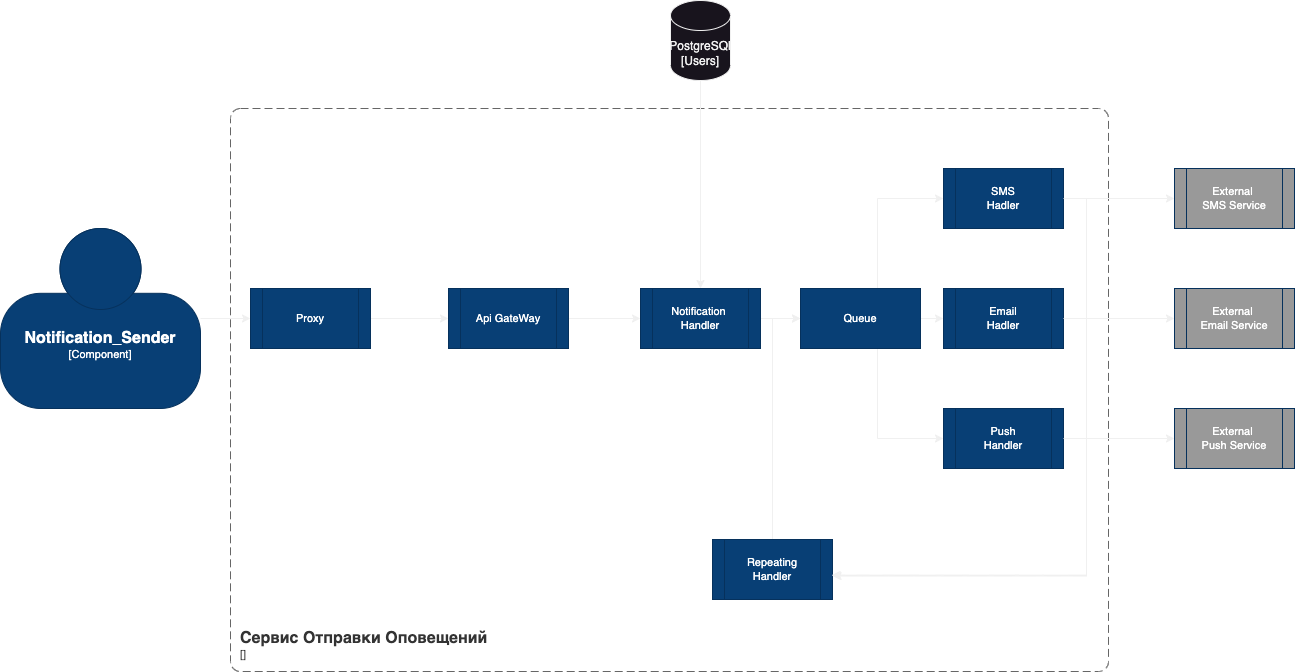
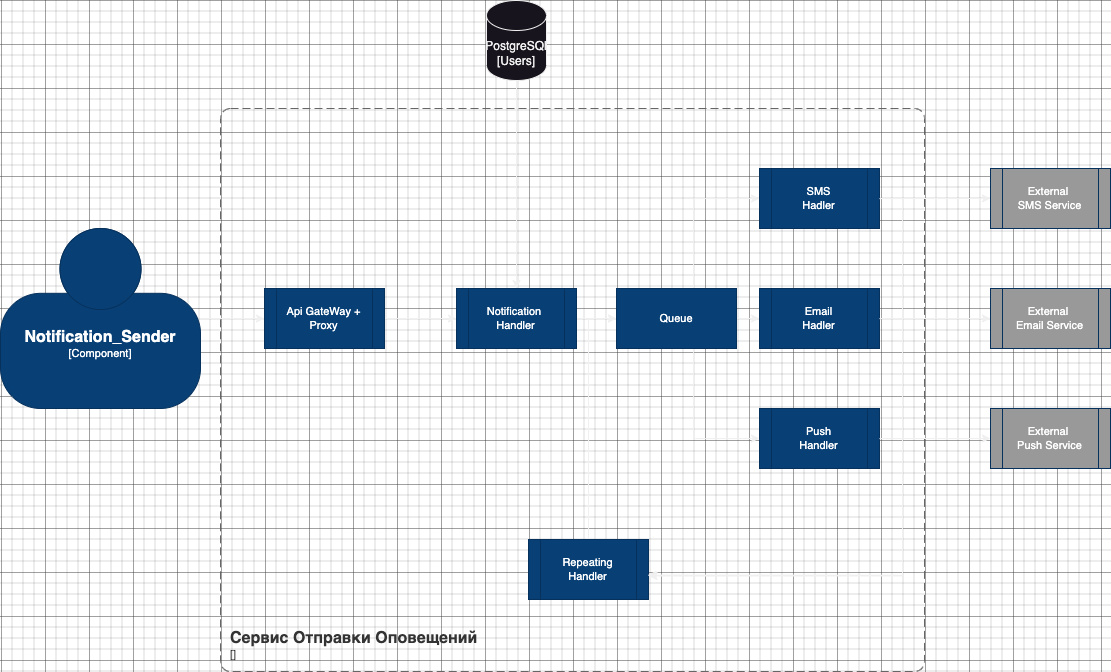
second attempt
- change diagrams
- add explanation in adrs
- split adr rest api and proxy
- correct misundestanding
- describe databases and data inside

diff --git a/notificator/software_architecture_document.md b/notificator/software_architecture_document.md
@@ -12,6 +12,9 @@
 
 ## Целевая архитектура
 
+После анализа требований было принято решение использование архитектуры микросервисов. 
+
+
 ### Диаграмма контекста (C1):
 ![C1](static/c1.svg)
 
@@ -19,7 +22,8 @@
 
 ### Диаграмма контейнеров (C2):
 ![C2](static/c2.png)
-![C2_logs](static/c2_2.png)
+
+
 Процессы:
    1. Запроса на формирование нотификейшена
    2. Сохранения информации об отправленных запросах
@@ -30,20 +34,20 @@
 
 Бизнес-данные:    
    1. Конфигурации каналов связи
-   2. Расписание рассылки
 
 Отчетные/аналитические данные:
    1. Логи/Метрики
 
 #### ADR:
 
-| ID      | Дата       | Статус      | Участники     | Решения                                         |
-|---------|------------|-------------|---------------|-------------------------------------------------|
-| ADR-001 | 2023-10-08 | Рассмотрено | Трошина Дарья | Использовать REST API <br/> Использование proxy |
-| ADR-002 | 2023-10-08 | Рассмотрено | Трошина Дарья | Использовать API Gateway                        |
-| ADR-004 | 2023-10-08 | Рассмотрено | Трошина Дарья | Использовать брокер сообщений для отправки оповещений на хэндлеры                                              |
-| ADR-005 | 2023-10-08 | Рассмотрено | Трошина Дарья | Использования сервиса повторной отправки при сбоях                                              |
-| ADR-007 | 2023-10-08 | Рассмотрено | Трошина Дарья | Логгирование для всех контейнеров                                            |
+| ID      | Дата       | Статус      | Участники     | Решения                                        |
+|---------|------------|-------------|---------------|------------------------------------------------|
+| ADR-001 | 2023-10-08 | Рассмотрено | Трошина Дарья | Использовать REST API  |
+| ADR-002 | 2023-10-08 | Рассмотрено | Трошина Дарья | Использовать API Gateway                       |
+| ADR-004 | 2023-10-08 | Рассмотрено | Трошина Дарья | Использовать брокер сообщений для отправки оповещений на хэндлеры                                             |
+| ADR-005 | 2023-10-08 | Рассмотрено | Трошина Дарья | Использования сервиса повторной отправки при сбоях                                             |
+| ADR-007 | 2023-10-08 | Рассмотрено | Трошина Дарья | Логгирование для всех контейнеров                                           |
+| ADR-009 | 2023-10-09 | Рассмотрено | Трошина Дарья | Использование proxy                                         |
 
 
 
@@ -58,6 +62,7 @@
 
 #### Компоненты SMS/EMAIL/Push Handler, Repeating Handler, Logging:
 ![C3_2](static/с3_2.png)
+![C2_logs](static/c2_2.png)
 
 | ID      | Дата       | Статус      | Участники     | Решения                                         |
 |---------|------------|-------------|---------------|-------------------------------------------------|

diff --git a/notificator/ADR/adr-003.md b/notificator/ADR/adr-003.md
@@ -9,18 +9,28 @@
 
 #### Решения:
 * Использовать PostgreSql для хранения конфигураций отправки и данных пользователя
+* Разделение данных на 2 базы
 
 #### Контекст:
 Необходимо хранить конфигурации для отправки уведомлений
 
-Нужен быстрый поиск по данным, для этого нужна реляционная система.
-Сильных ограничений на базу в данном случае нет. Выбираем Постгрес, как опенсорсное и универсальное решение
+Нужен поиск по данным, для этого лучше подходит реляционная система. 
+В ней привлекает возможность наложения констрейнов в виде ключей.
+Это ускорит поиск и объединение данных.
+Сильных ограничений на базу в данном случае нет. 
+Поэтому останавливаюсь на постгресе, поскольку уже был опыт с этой базой данных у команды.
+
+В системе 2 базы данных. 
+* Первая внешняя для нашей системы. Она хранит персональные знания о юзерах. Предполагается, что наша система это лишь кусок чего-то большего. Во избежание лишних рисков выносим работу с ПД во вне помимо почты, куда отправлять. Также для отказоустойчивости базы. Если мы потеряем содержание сообщение это не так страшно, как если мы потеряем информацию о юзере 
+* Вторая внутренняя для нашей системы. Она хранит знания о настройках отправляемых сообщений: что надо отправить, куда, какие персональные данные стоит вставить. Например, часто письма делают персонализированными: "Здравствуйте, Дарья...". Или тому подобное, или надо вставить какую нибудь другую персональную информацию о клиенте
+
 
 #### Последствия:
 
 ##### Положительные:
-* Быстро
+* Возможности наложение констрейнов
 * OpenSource
 
 ##### Отрицательные:
 * Дополнительная ресурсы на поддержание
+* Сложности администрирования

diff --git a/notificator/ADR/adr-009.md b/notificator/ADR/adr-009.md
@@ -1,0 +1,25 @@
+#### ID: ADR-001
+
+#### Дата: 2023-10-09
+
+#### Статус: Рассмотрено
+
+#### Участники:
+* Трошина Дарья
+
+#### Решения:
+* Использование прокси для пользователей внешних для нашей системы
+
+#### Контекст:
+* Для осуществления защиты и обработки ошибок предлагается поставить прокси.
+
+#### Последствия:
+
+##### Положительные:
+* Дополнительная защита
+* Возможность обрабатывать ошибки
+
+##### Отрицательные:
+* Дополнительные ресурсы для раскатки и поддержки прокси
+* Увеличение времени обработки запроса
+

diff --git a/notificator/ADR/adr-007.md b/notificator/ADR/adr-007.md
@@ -9,6 +9,7 @@
 
 #### Решения:
 * Логгирование для всех контейнеров
+* Использование единого места сбора логов
 
 #### Контекст:
 На каждом этапе, в каждом контейнере может пойти что-то не так.
@@ -22,7 +23,7 @@
 ##### Положительные:
 * Большее знание о поведении системы
 * Возможности отыскания багов
-* Возмжности мониторинга системы
+* Возможности мониторинга системы
 
 ##### Отрицательные:
 * Сложнее в настройке и поддержании

diff --git a/notificator/ADR/adr-002.md b/notificator/ADR/adr-002.md
@@ -12,7 +12,7 @@
 
 #### Контекст:
 Для единой точки входа в сервис и балансировки нагрузки предлагается использовать Nginx.
-Причина: распространенность технологии 
+Поскольку у команды уже был работы с данной технологией.
 
 #### Последствия:
 
